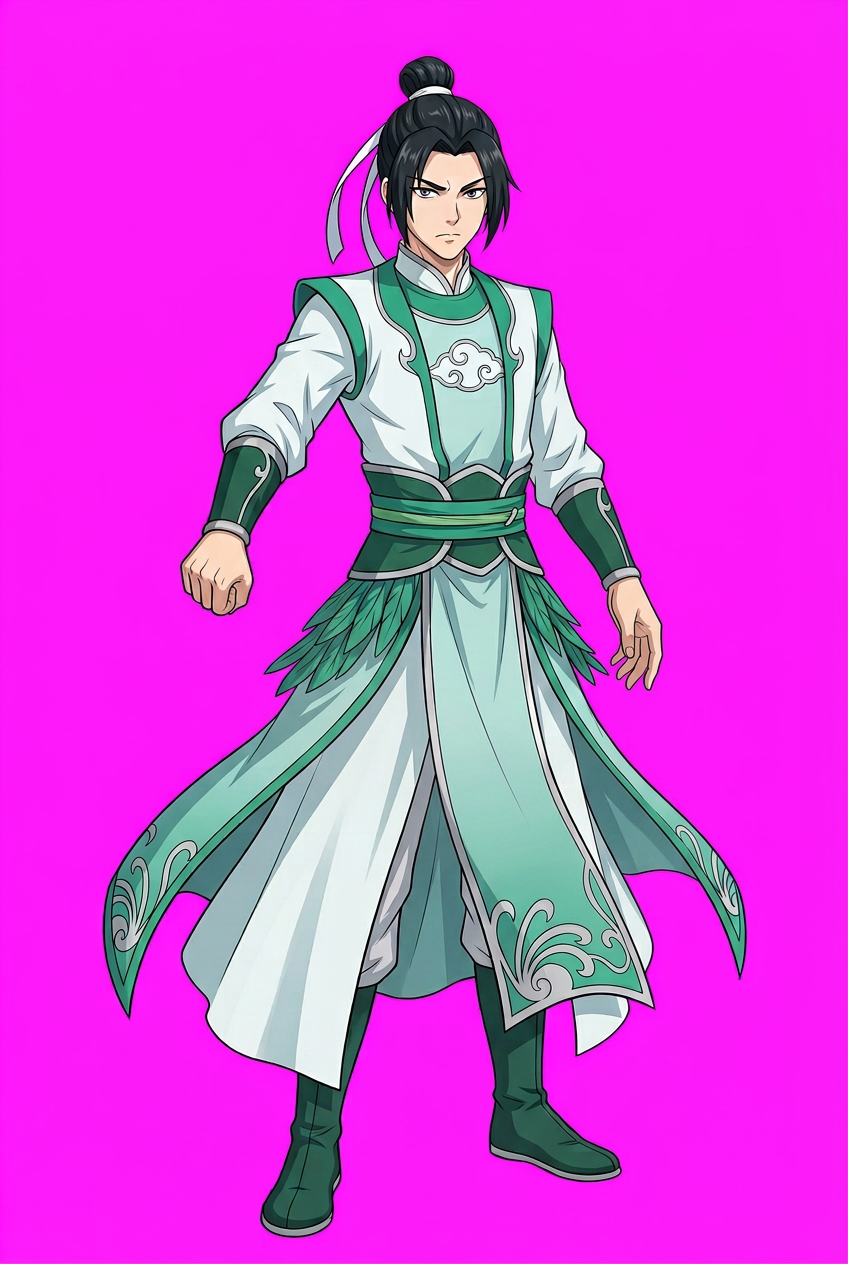
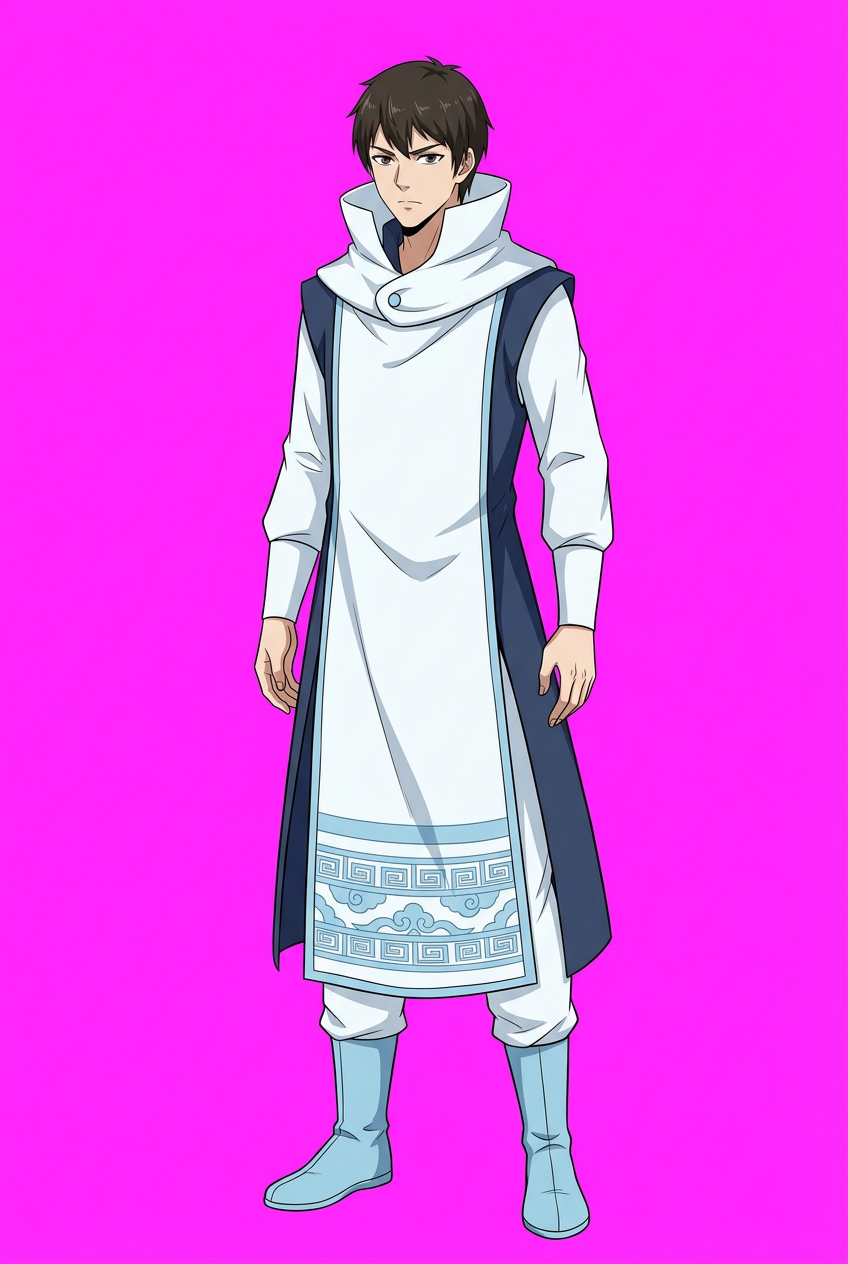
复核: 雅妃/云山/吴护法一致; 云岚宗弟子按74话重画

diff --git a/dev/design/漫画复核进度.md b/dev/design/漫画复核进度.md
@@ -55,6 +55,12 @@
 | 蛇人头目 | e_snake_captain（新） | 40-22 | 🆕 按漫画新画（白头巾+白围巾、黑色长八字胡、黑色金边背心+金色交叉系带、白绷带护臂、白腰布、奶白带墨绿斑点蛇尾） |
 | 云韵（第1章 云芝装） | yunyun_c1（新） | 28-04/09/12（对白 Yun Zhi jie jie） | 🆕 按漫画新画（银白及膝长发+白莲发饰、额前蓝印、蓝色深V紧身裙+白色短外套肩甲、蓝长手套、蓝色过膝长靴、白色长披风） |
 | 云韵（第2章 宗主装） | yunyun | refs/yunyun_manhua.jpg | ✅ 一致（银白长发、绿色宗主长裙、紫色羽饰） |
+| 雅妃 | yafei | fandom YaFeiManhua（漫画第8话拍卖会） | ✅ 一致（金色长卷发、蓝眼、红色金饰长裙、白色毛皮披肩） |
+| 云山 | b_yunshan | fandom YunShanManhua（第241回标题页 斗宗·云山） | ✅ 一致（白长发带黑挑染、藏青长袍浅蓝镶边、白裤黑靴）；形态2 斗气化翼 仍按 Boss形态清单 待画 |
+| 云岚宗弟子 | e_disciple | 74-05/08/16（三年之约） | ❌→已重画（原为绿白袍扎髻；漫画为白色高立领兜帽式制服、白长罩袍两侧藏青、浅蓝回纹下摆、浅蓝靴） |
+| 吴护法（魂殿，云岚宗篇） | wuhufa | 168-15 | ✅ 一致（黑兜帽、灰脸、骷髅肩甲胸甲、红色内衬黑披风、白色前襟） |
+| 魂殿护法（杂兵/精英） | e_soul | 漫画云岚宗篇仅吴护法+168-12暗影 | ⚠ 第2章精英 soul_elder 改用 wuhufa 图；e_soul 杂兵待第6章魂殿篇按漫画魂殿成员重画 |
+| 铁护法 | tiehufa | 186-187 | ⏳ 到黑角域篇再核 |
 
 ## 用户决定（2026-09-27）
 - 魔兽山脉敌人：删掉 疾风狼/紫影魔狼/火纹魔狼，改用漫画中出现过的魔兽（白色魔猿 25-26、棕色獠牙巨兽 27-12、小医仙的巨鹰 24-19 等），每种按漫画画。
